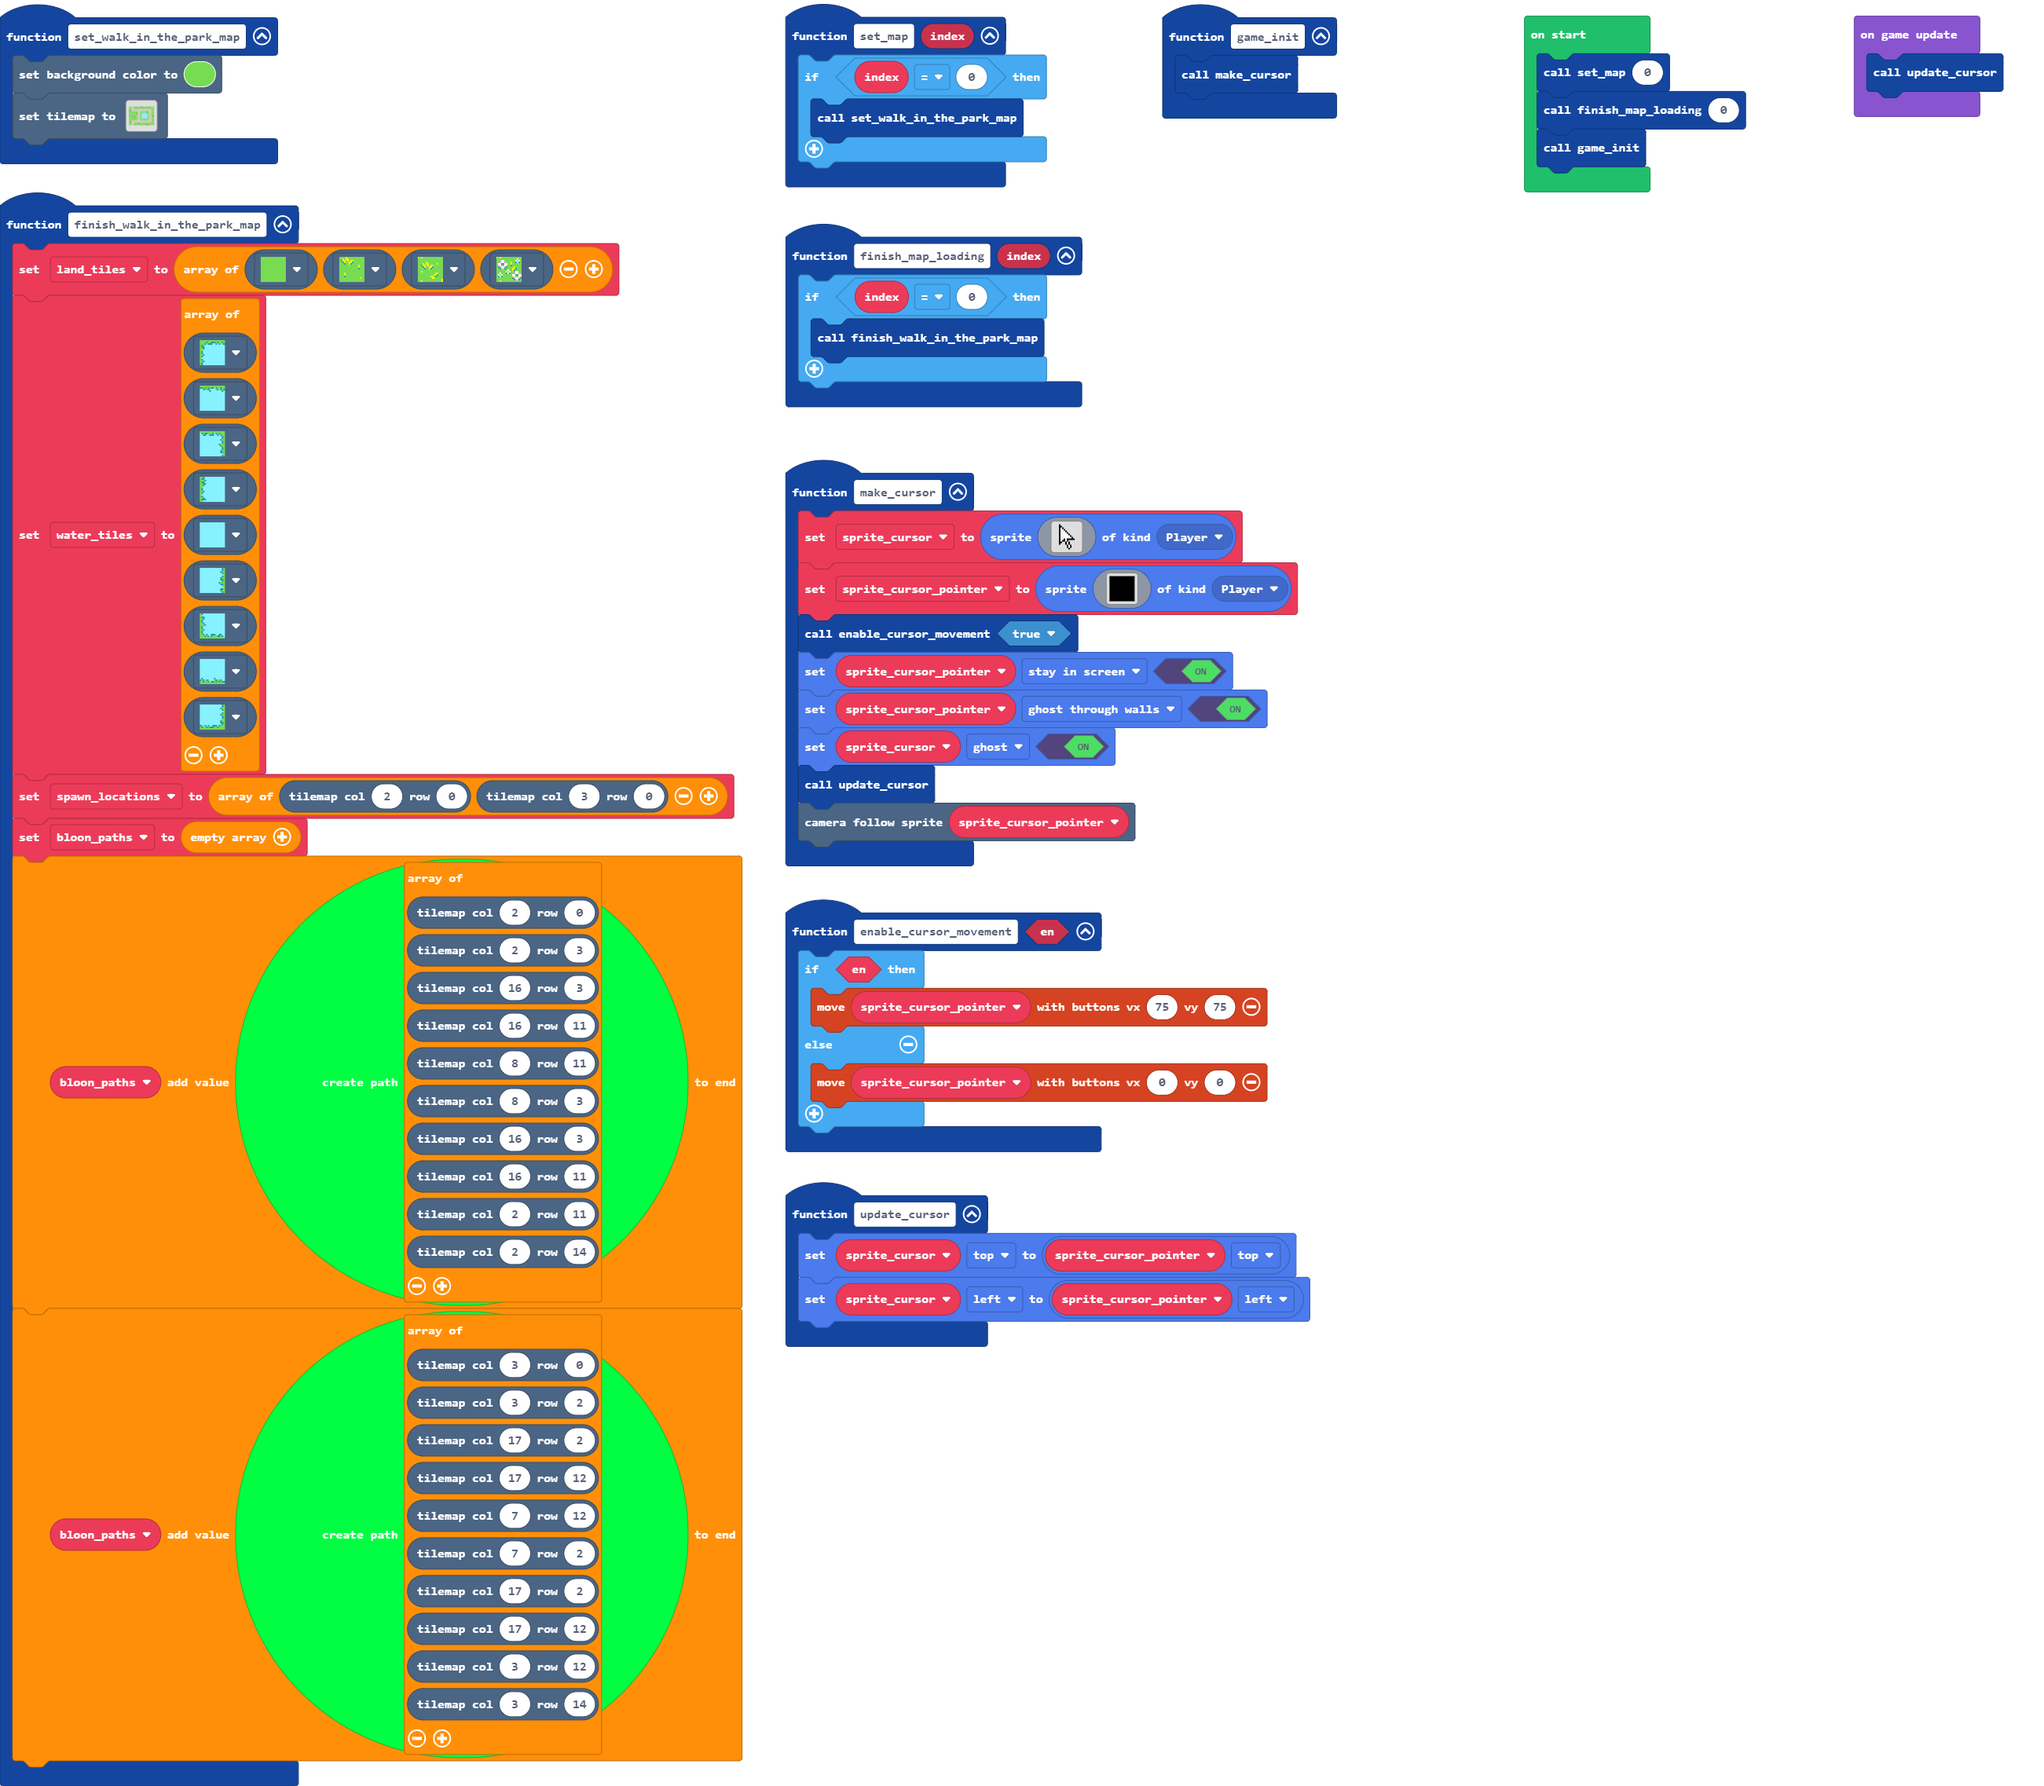
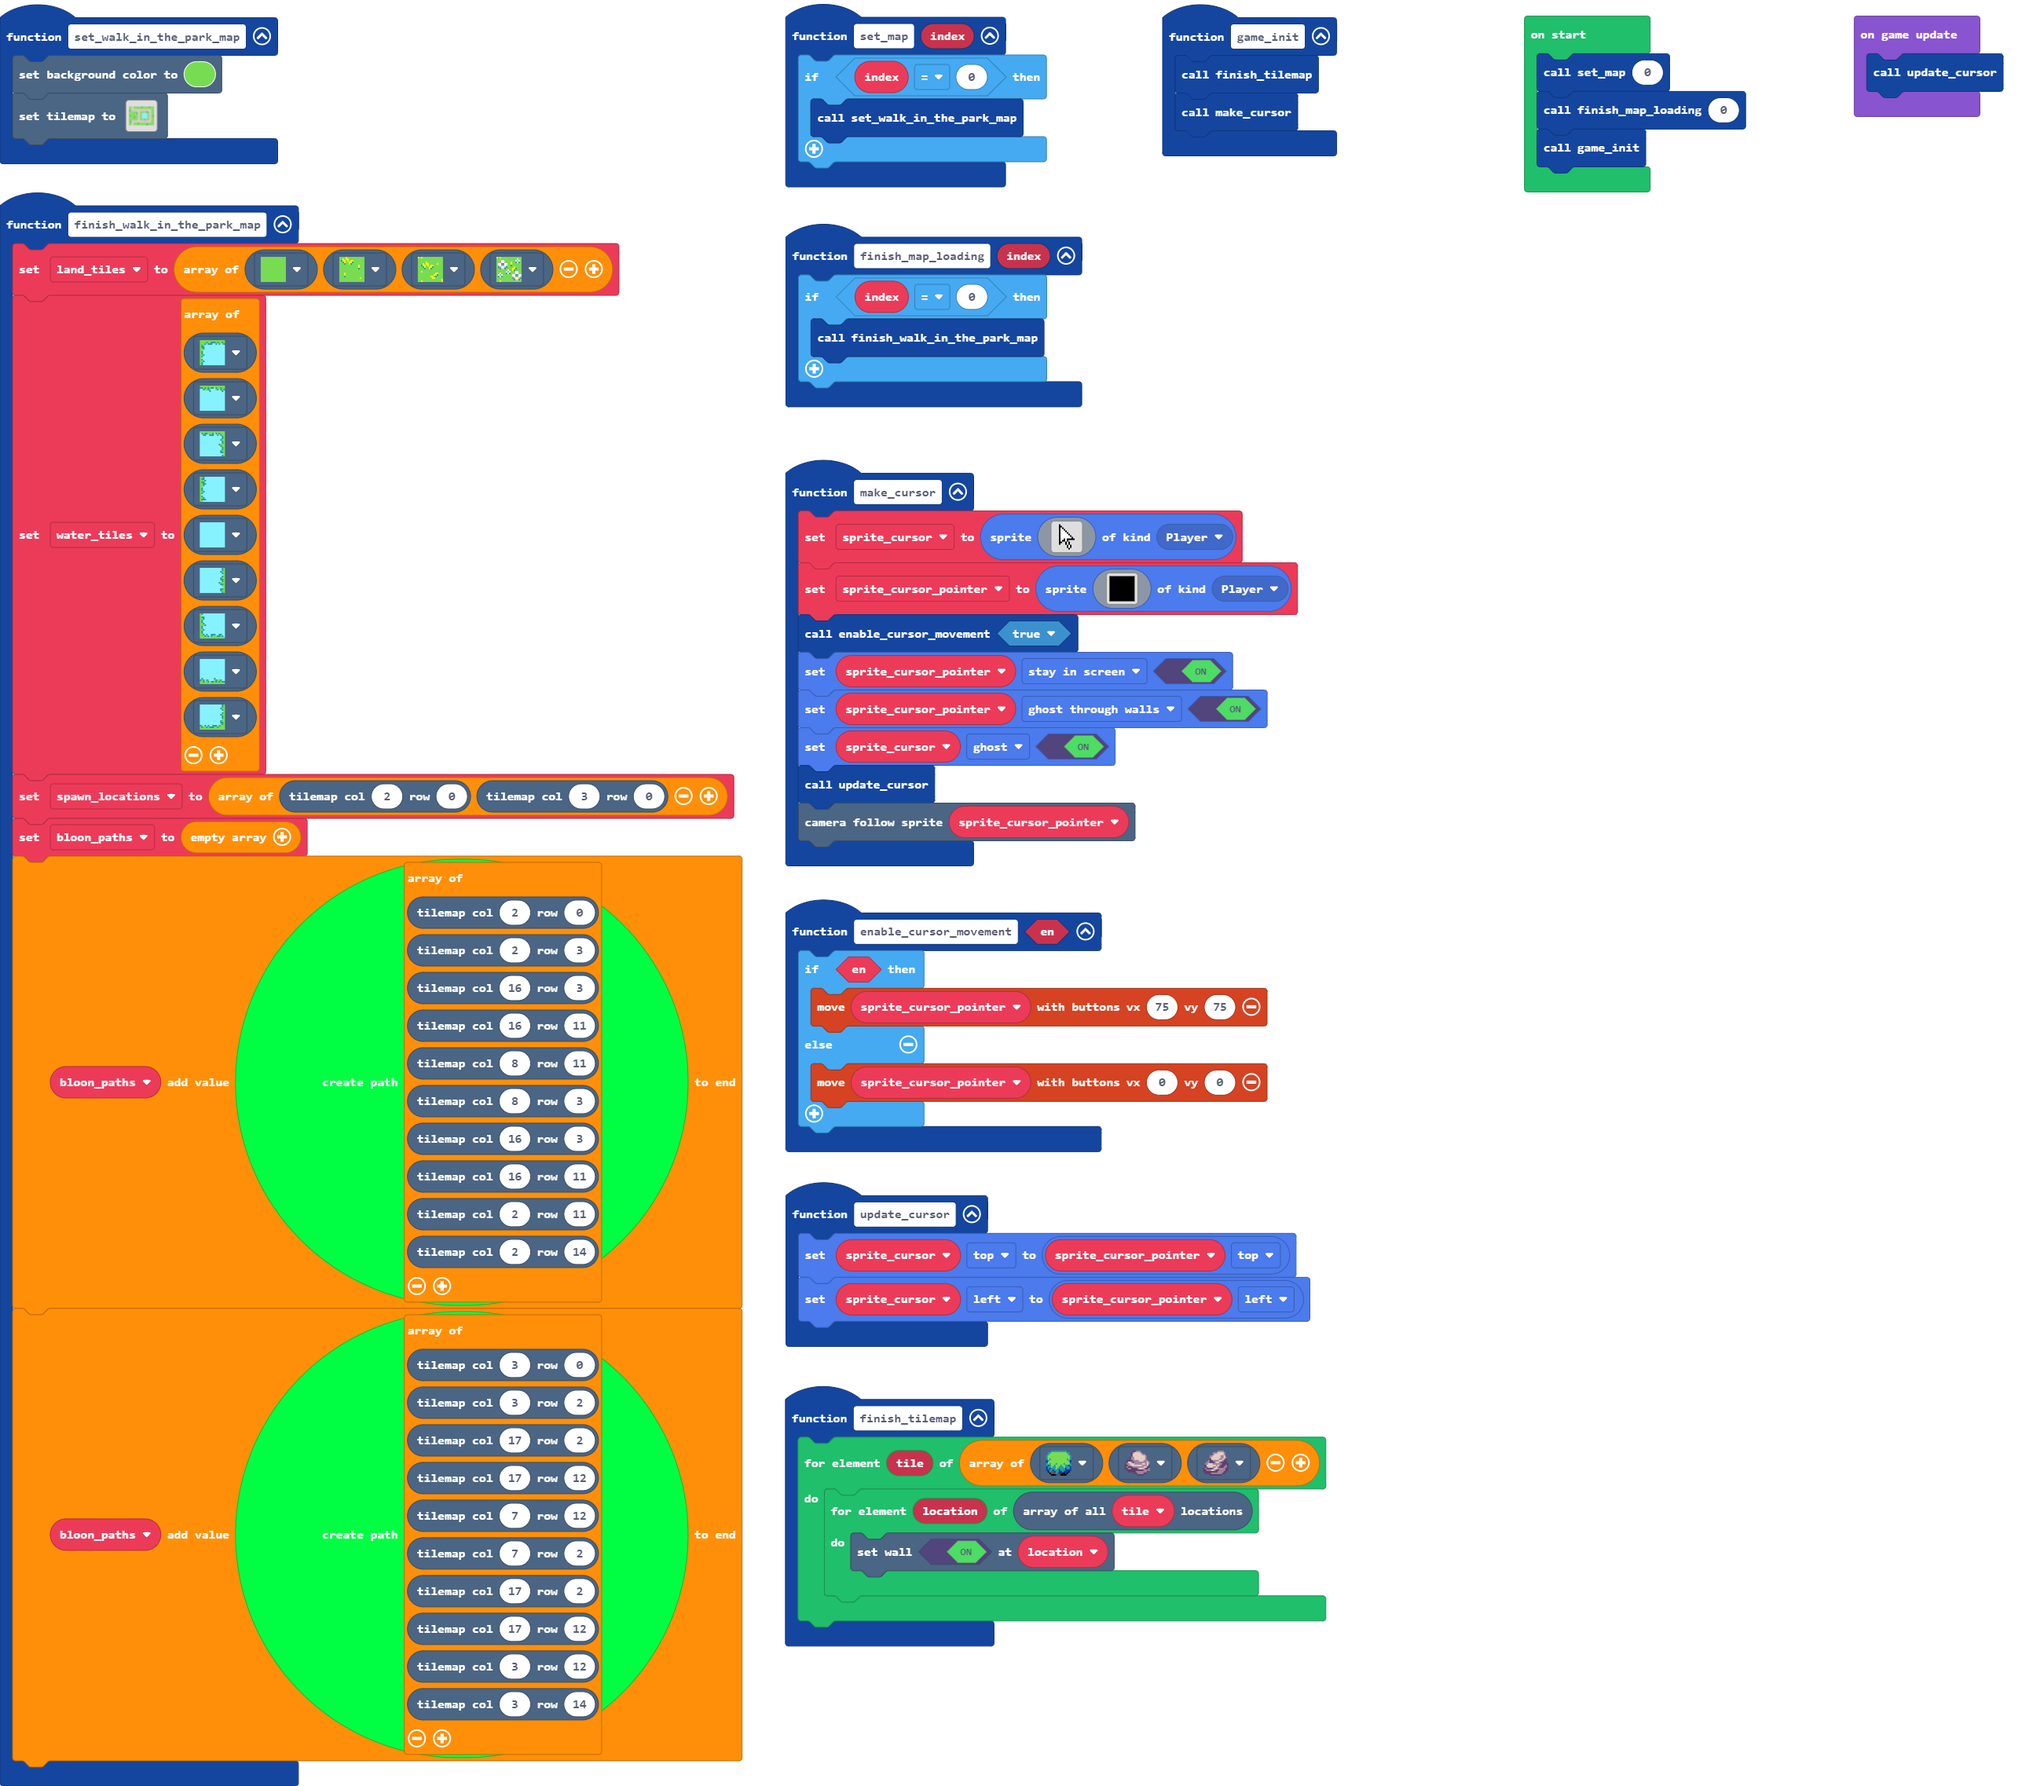
Finish tilemap in game initiate

Changed region(s): [[0.3736, 0.7806, 0.6537, 0.9367], [0.5603, 0.0312, 0.6537, 0.0937]]

diff --git a/main.ts b/main.ts
@@ -9,6 +9,13 @@ function enable_cursor_movement (en: boolean) {
         controller.moveSprite(sprite_cursor_pointer, 0, 0)
     }
 }
+function finish_tilemap () {
+    for (let tile of [sprites.builtin.forestTiles0, sprites.castle.rock0, sprites.castle.rock1]) {
+        for (let location of tiles.getTilesByType(tile)) {
+            tiles.setWallAt(location, true)
+        }
+    }
+}
 function finish_walk_in_the_park_map () {
     land_tiles = [assets.tile`grass`, sprites.castle.tileGrass1, sprites.castle.tileGrass3, sprites.castle.tileGrass2]
     water_tiles = [
@@ -64,6 +71,7 @@ function make_cursor () {
     scene.cameraFollowSprite(sprite_cursor_pointer)
 }
 function game_init () {
+    finish_tilemap()
     make_cursor()
 }
 function set_map (index: number) {
